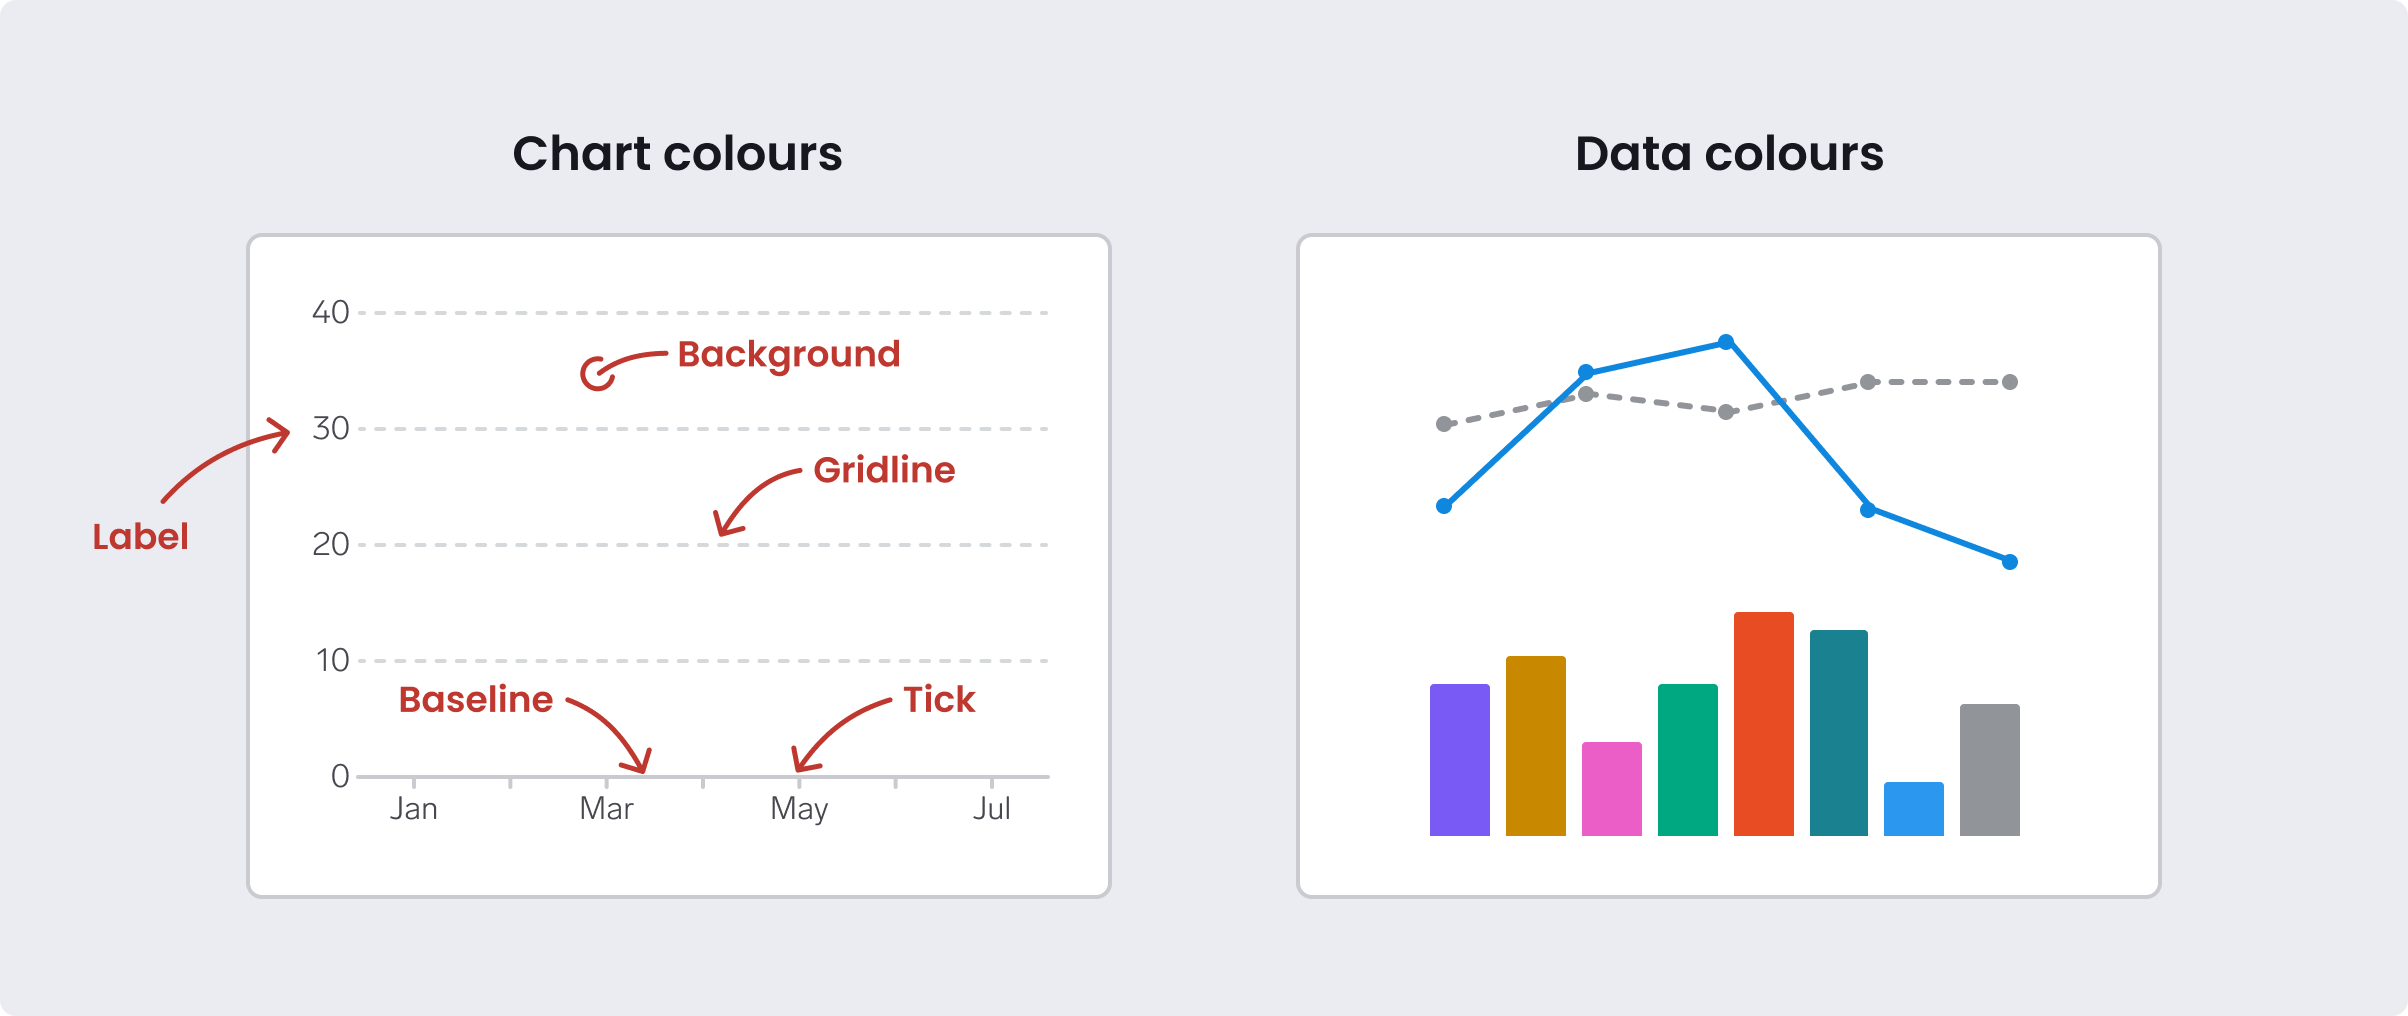
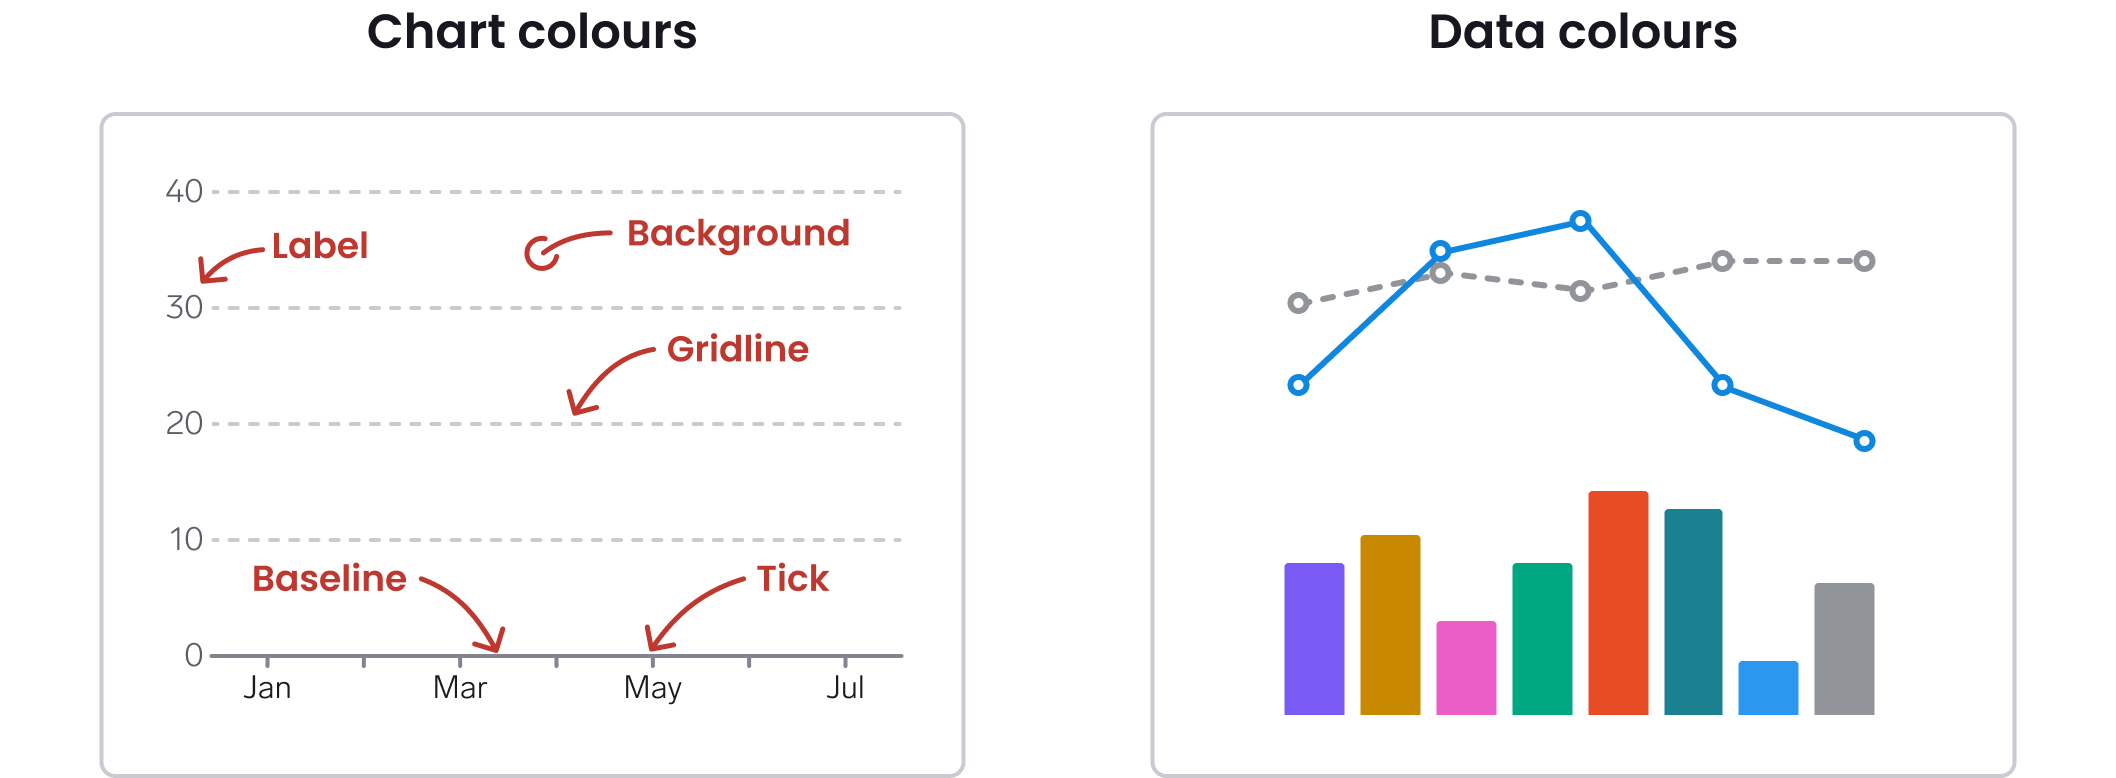
added more dataviz documentation and some new images

diff --git a/docs/.vitepress/config.js b/docs/.vitepress/config.js
@@ -533,12 +533,16 @@ export default defineConfig({
             collapsed: true,
             items: [
               {
-                text: 'Get Started',
-                link: '/foundations/data-visualization/get-started/',
+                text: 'Introduction',
+                link: '/foundations/data-visualization/introduction/',
               },
               {
                 text: 'Figma Library',
                 link: '/foundations/data-visualization/figma-library/',
+              },
+              {
+                text: 'Components',
+                link: '/foundations/data-visualization/components/',
               },
               {
                 text: 'CSS Classes',
@@ -575,16 +579,8 @@ export default defineConfig({
                 link: '/foundations/data-visualization/interactive/',
               },
               {
-                text: 'Library & Components',
-                link: '/foundations/data-visualization/library-components/',
-              },
-              {
                 text: 'Success Criteria',
                 link: '/foundations/data-visualization/success-criteria/',
-              },
-              {
-                text: '(Chart Types)',
-                link: '/foundations/data-visualization/chart-types/',
               },
             ],
           },

diff --git a/docs/foundations/data-visualization/introduction/index.md b/docs/foundations/data-visualization/introduction/index.md
@@ -1,8 +1,12 @@
-# Getting started
+# Introduction to data visualisation
 
-Here you will find guidelines about data visualisation in customer facing products and services.
+![A bar chart, donut chart and bubble graph](/foundations/dataviz/graphs-light-and-dark.png)
 
-![A bar chart, donut chart and bubble graph](/foundations/dataviz/graphs.svg)
+WARP offers a comprehensive **colour palette** for data visualisation, available both in Figma and code. See [Colour usage](/foundations/data-visualization/colour-usage/).
+
+There is no dedicated code library or components for dataviz available in code, as different teams currently use a variety of libraries. However, there are come components available in Figma. See [Components](/foundations/data-visualization/components/).
+
+On this page you will find a general introduction to working with data visualisation – commonly referred to as ✨ **dataviz** ✨.
 
 ## What do you need to think about?
 
@@ -29,7 +33,7 @@ Before you make a visualisation it can be useful to define the goal of the visua
 - Should your visualisation **explain** an insight, or allow people to **explore** on their own?
 - Should your visualisation enable people to **read** off the information in detail, or rather provide them an overall **feeling** of the data?
 
-![A scale ranging from Explain to Explore, and another scale ranging from Read to Feel](/foundations/dataviz/explain-explore-read-feel.svg)
+![A scale ranging from Explain to Explore, and another scale ranging from Read to Feel](/foundations/dataviz/explain-explore-read-feel.svg){width=700px}
 
 ### Explain vs Explore
 
@@ -40,6 +44,23 @@ Before you make a visualisation it can be useful to define the goal of the visua
 - **Read**: the focus is on being able to read the data as efficiently and precise as possible. In this case, make sure to use the graph types and elements that allows for a precise reading. For example, it is hard to compare one angle with another, or the size of an area with another, while it is easier to compare the length of lines next to each other.
 - **Feel**: the focus is on evoking a feeling or overall impression of the data. In this case, consider visual means that evoke associations and emotions and make the visualisation memorable.
 
+## Chart functions
+
+In order to find a good chart it is useful to figure out what you want to show about the data. In other words, what function the chart should serve.
+
+![Circles organised to show comparison, correlation, distribution, trend over time, parts to whole, and geolocation. ](/foundations/dataviz/functions.svg)
+
+The most common functions are:
+- **Comparison**. Compare two or more values
+- **Correlation.** See the relationship between two or more values
+- **Distribution.** See how values are spread out within one variable
+- **Trend over time**. See how values change over time
+- **Part to whole**. See the composition of a whole
+- **Geolocation**. See the geographical distribution of a particular variable.
+
+::: tip
+For a full overview of different chart types you can use for different functions, have a look at the [DataViz Project](https://datavizproject.com/).
+:::
 
 ## What is a good visualisation?
 

diff --git a/docs/foundations/data-visualization/colour-usage/index.md b/docs/foundations/data-visualization/colour-usage/index.md
@@ -2,13 +2,21 @@
 
 Colour plays an important role in data visualisation, and can be used to encode data in many ways. In addition, colour is often the first thing we perceive on a screen and can be used to guide the user's attention.
 
-## Colours for chart elements and data representation
-
-There are two main categories of dataviz colours:
-- **Chart colours** for non-data element in the chart, such as gridlines, axes and text labels
-- **Data colours** for visual elements that encode data, such as lines, bars and areas.
-
+::: image-block
 ![Empty chart with axes, labels and gridlines using WARP colours to the left, bars and lines using dataviz colours to the right](/foundations/dataviz/chart-vs-data-colours.png)
+:::
+
+There are two main categories of dataviz colours: chart colours and data colours.
+
+We use **Chart colours** for non-data elements in the chart, such as gridlines, axes and text labels. See [Chart colours](/foundations/data-visualization/colour-usage/chart-colours/).
+
+We use **Data colours** are for visual elements that encode data, such as lines, bars and areas. See [Data colours](/foundations/data-visualization/colour-usage/chart-colours/).
+
+## Semantic colours
+
+The dataviz library is structured in a similar way as the regular WARP UI library, using semantic tokens. This allows us to use colours in a consistent and meaningful way, and makes it easy to swap between light mode and dark mode. The dataviz colours are the same across all Vend brands. 
+
+![A blue HEX colour value is stored in a colour primitive, which is connected to a semantic token, which is applied to a dataviz bar](/foundations/dataviz/semantic-token.png)
 
 For data colours, there are different semantic colours that should be used intentionally:
 

diff --git a/docs/foundations/data-visualization/colour-usage/chart-colours/index.md b/docs/foundations/data-visualization/colour-usage/chart-colours/index.md
@@ -1,2 +1,36 @@
 # Chart Colours
 
+Chart colours are colours that we use to build non-data element in the chart.
+
+::: image-block
+![Screenshot from Figma](/foundations/dataviz/chart-colours.png){width=433px}
+:::
+
+Chart colours should be applied to elements like:
+- **The background**: a surface for all chart elements
+- **The baseline**, long line, typically indicating 0 on the y axis
+- **Gridlines**. long lines at regular intervals on the x or y axis
+- **Ticks**: short lines indicating regular intervals on the x or y axis
+- **Labels**: text on the x or y axis, often next to ticks or gridlines
+
+## Chart colours
+All chart colours start with 'chart'.
+
+::: image-block
+![Screenshot from Figma](/foundations/dataviz/colourlist-chartcolours.png){width=620px}
+:::
+
+To achieve sufficient contrast, visualisations should always be placed on ChartBackground, which corresponds to the default background colour in WARP. 
+
+The ChartBackground colour can also be used in gradients, to fade data colours to blend with the backgorund.
+
+[illustration?]
+
+## Why chart colours?
+
+Some of the chart colours are identical to regular WARP colours, for example the background, text, and text subtle. However, there are a few reaasons why we provide these colours in the dataviz library: 
+
+- In Figma, it is convenient for designers to have all the colours they need for charts in one library
+- In code, the dataviz colours can be applied to SVG elements using utility classes 
+- Users of the dataviz library get all the colours they need for creating charts, and the library can therefore be used independent of WARP
+- At the time of writing (jan 2025) are is no border-subtle in WARP, which is needed for gridlines etc.

diff --git a/docs/foundations/data-visualization/css-utility/index.md b/docs/foundations/data-visualization/css-utility/index.md
@@ -6,14 +6,11 @@ We have defined a colour palette for data visualization that should be used acro
 See [Colour Usage](/foundations/data-visualization/colour-usage/) for detailed descriptions and examples of the different colours. 
 :::
 
-A data visualization typically contains both **elements representing data** (like bars or lines), and **non-data elements** like axes and labels that provides context. 
-- Use **WARP colours** for non-data elements like background, labels, gridlines, baseline and ticks
-- Use **dataviz colours** for elements representing data, such as bars, areas, lines and points 
+## Colours for non-data elements 
 
-![Empty chart with axes, labels and gridlines using WARP colours to the left, bars and lines using dataviz colours to the right](/foundations/dataviz/chart-vs-data-colours.png)
+..to do..
 
-## WARP colours for non-data elements 
-
+::: details (outdated)
 Use these regular WARP colours for non-data elements:
 - `s-bg`or `background-color: var(--w-s-color-background)` for chart background
 - `s-text` or `color: var(--w-s-color-text)` for prominent text
@@ -22,6 +19,7 @@ Use these regular WARP colours for non-data elements:
 - ~~`s-border-subtle` or `border-color: var(--w-s-color-border-subtle)` for non-crucial lines like gridlines~~ (yet to be added)
 
 See [text colour](/foundations/css-classes/text-color/), [border colour](/foundations/css-classes/border-color/) and [border colour](/foundations/css-classes/background-color/) for more information. 
+:::
 
 ## Dataviz colours for elements representing data
 We have defined different colours to use with **different visual elements** representing data:

diff --git a/docs/foundations/data-visualization/components/index.md b/docs/foundations/data-visualization/components/index.md
@@ -1,0 +1,15 @@
+# Components for data visualisation
+
+## Code
+
+There is no WARP component library for data visualisation. For web, the JavaScript library you use typically takes care of all the parts of a visualisation.
+
+### Which visualisation library should you use?
+There are many JavaScript libraries available, such as [HighCharts](https://www.highcharts.com), [D3](https://d3js.org/), [visx](https://airbnb.io/visx/), [Recharts](https://recharts.org/) and [Apexcharts](https://apexcharts.com/). 
+
+Product teams in Vend use a variety of charting libraries, and we have not decided on a recommended library. This is not straightforward, as different teams might have unique chart requrements. 
+
+Make sure to check if the library allows you to follow the [Success criteria](/foundations/data-visualization/success-criteria/), for example for screen reader accessibility.
+
+## Figma
+
